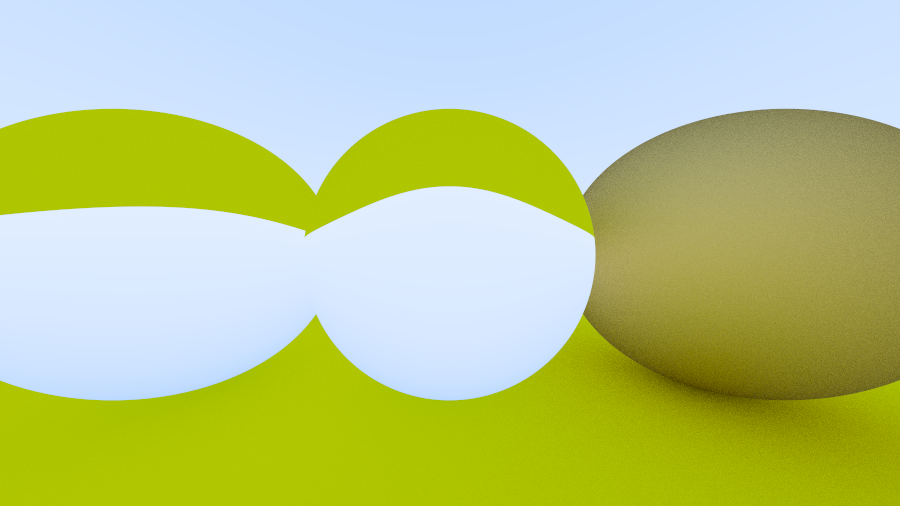
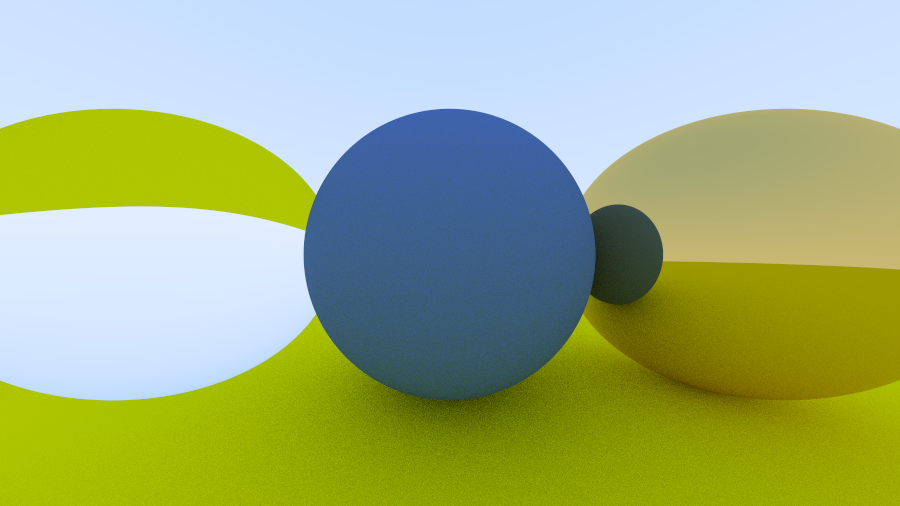
Total internal reflection

diff --git a/src/my_scene.rs b/src/my_scene.rs
@@ -5,7 +5,7 @@ use crate::sphere::*;
 use crate::*;
 
 pub const ASPECT_RATION: f32 = 16.0 / 9.0;
-pub const WIDTH: usize = 1260;
+pub const WIDTH: usize = 900;
 pub const HEIGHT: usize = (WIDTH as f32 / ASPECT_RATION) as usize;
 pub const SAMPLE_PER_PIXEL: usize = 80;
 pub const MAX_DEPTH: usize = 25;
@@ -31,11 +31,11 @@ pub fn init_world_and_camera() {
         100.0,
         Arc::new(METAL),
     )));
-    world.add(Box::new(Sphere::new(
-        glm::vec3(0.0, 102.9, -1.0),
-        100.0,
-        Arc::new(METAL),
-    )));
+    // world.add(Box::new(Sphere::new(
+    //     glm::vec3(0.0, 102.9, -1.0),
+    //     100.0,
+    //     Arc::new(METAL),
+    // )));
     for x in -9..9 {
         world.add(Box::new(Sphere::new(
             glm::vec3(x as f32, 0.0, -3.0 - rand::random::<f32>()),
@@ -57,6 +57,13 @@ pub fn init_world_and_camera() {
             Arc::new(BLUE_METAL),
         )));
     }
+    for x in -5..5 {
+        world.add(Box::new(Sphere::new(
+            glm::vec3(x as f32, 1.0, -2.5),
+            0.5,
+            Arc::new(Dielectic::new(2.0 + x as f32 / 10.0)),
+        )));
+    }
     world.add(Box::new(Sphere::new(
         glm::vec3(0.0, 0.0, 22.0),
         20.0,
@@ -70,7 +77,7 @@ pub fn init_world_and_camera() {
     world.add(Box::new(Sphere::new(
         glm::vec3(0.0, 1.0, -2.50),
         0.5,
-        Arc::new(Dielectic::new(1.5)),
+        Arc::new(Dielectic::new(1.2)),
     )));
     if WORLD.set(world).is_err() {
         panic!("Tried to set WORLD twice. This is a bug");
@@ -95,5 +102,5 @@ pub fn sky_color(ray: &Ray, depth: usize) -> Color {
     // } else {
     //     0.0
     // };
-    Color::new(0.0, 0.00, 0.00).lerp(&Color::new(s, s/2.0, s/3.0), t)
+    Color::new(0.0, 0.00, 0.00).lerp(&Color::new(s, s / 2.0, s / 3.0), t)
 }

diff --git a/src/material.rs b/src/material.rs
@@ -98,20 +98,16 @@ impl Material for Dielectic {
 
         let unit_direction = ray_in.dir.normalize();
 
-        // Listening 58 code
-        //
-        // let cos_theta = (-unit_direction).dot(&rec.normal).min(1.0);
-        // let sin_theta = (1.0 - cos_theta * cos_theta).sqrt();
-        // let cannot_refract = refraction_ratio * sin_theta > 1.0;
-        // let direction = if cannot_refract {
-        //     glm::reflect_vec(&unit_direction, &rec.normal)
-        // } else {
-        //     glm::refract_vec(&unit_direction, &rec.normal, refraction_ratio)
-        // };
-        // let scattered = Ray::new(rec.point, direction);
+        let cos_theta = (-unit_direction).dot(&rec.normal).min(1.0);
+        let sin_theta = (1.0 - cos_theta * cos_theta).sqrt();
+        let cannot_refract = refraction_ratio * sin_theta > 1.0;
+        let direction = if cannot_refract {
+            glm::reflect_vec(&unit_direction, &rec.normal)
+        } else {
+            glm::refract_vec(&unit_direction, &rec.normal, refraction_ratio)
+        };
+        let scattered = Ray::new(rec.point, direction);
 
-        let refracted = glm::refract_vec(&unit_direction, &rec.normal, refraction_ratio);
-        let scattered = Ray::new(rec.point, refracted);
         Scatter(attenuation, scattered)
     }
 }

diff --git a/src/main.rs b/src/main.rs
@@ -14,9 +14,9 @@ use std::{env, path, thread};
 
 use hittable_list::HittableList;
 use minifb::{Key, Window, WindowOptions};
+// use my_scene::*;
 use noise::*;
 use ray::Ray;
-// use my_scene::*;
 use scene::*;
 
 use crate::camera::Camera;
@@ -98,7 +98,7 @@ fn update_buffer(buffer: &mut [u32], window: &mut Window) {
             let color = pixel_processing(x, HEIGHT - y);
             if sender.send((xy, color)).is_err() {}
         });
-        eprintln!(" - Finished computing");
+        eprintln!("\r100.0% - Finished computing");
     });
     let mut now = std::time::Instant::now();
     for (i, (xy, (r, g, b))) in receiver.iter().enumerate() {

diff --git a/src/scene.rs b/src/scene.rs
@@ -13,9 +13,9 @@ pub const MAX_DEPTH: usize = 50;
 
 // Material definition
 pub const MATERIAL_GROUND: Lambertian = Lambertian::new(Color::new(0.8, 0.8, 0.0));
-pub const MATERIAL_CENTER: Dielectic = Dielectic::new(1.5);
+pub const MATERIAL_CENTER: Lambertian = Lambertian::new(Color::new(0.1, 0.2, 0.5));
 pub const MATERIAL_LEFT: Dielectic = Dielectic::new(1.5);
-pub const MATERIAL_RIGHT: Metal = Metal::new(Color::new(0.8, 0.6, 0.2), 1.0);
+pub const MATERIAL_RIGHT: Metal = Metal::new(Color::new(0.8, 0.6, 0.2), 0.0);
 
 // Object creation
 pub fn init_world_and_camera() {
